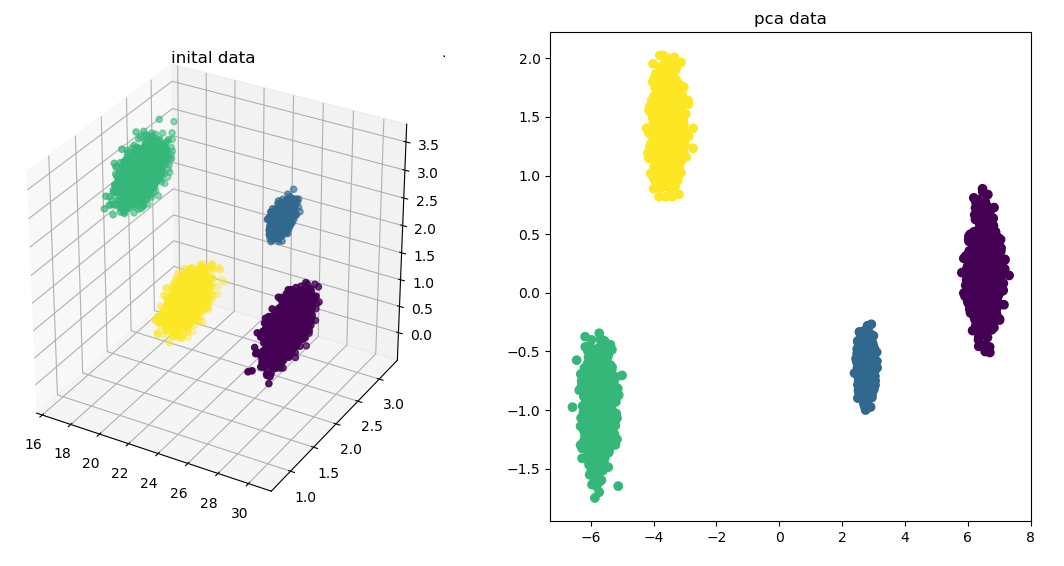
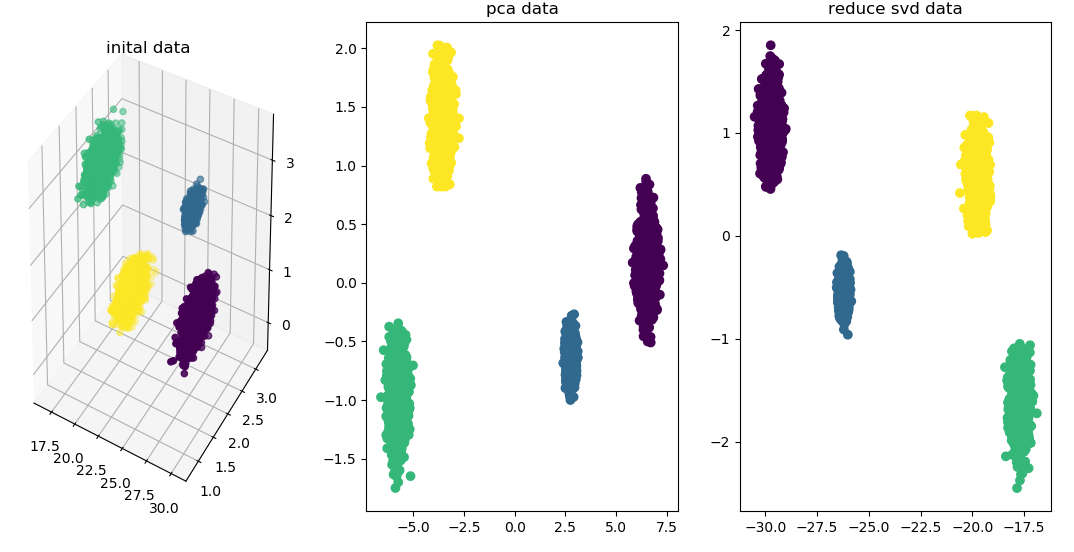
add svd

diff --git a/KMeansImageCompression/PCA.py b/KMeansImageCompression/PCA.py
@@ -1,5 +1,6 @@
 __author__ = 'wanqian'
 import numpy as np
+from numpy.linalg import svd
 from sklearn.datasets import make_blobs
 import matplotlib.pyplot as plt
 from mpl_toolkits.mplot3d import Axes3D
@@ -15,11 +16,22 @@ pca = PCA(n_components=2).fit(dataset)
 data_new = pca.transform(dataset)
 
 fig1 = plt.figure()
-ax = fig1.add_subplot(1, 2, 1, projection='3d')
+ax = fig1.add_subplot(1, 3, 1, projection='3d')
 ax.scatter(dataset[:,0], dataset[:,1], dataset[:,2], c=label)
 ax.set_title('inital data')
 
-ax = fig1.add_subplot(1, 2, 2)
+ax = fig1.add_subplot(1, 3, 2)
 ax.scatter(data_new[:,0], data_new[:,1], c=label)
 ax.set_title('pca data')
+
+Sigma = np.dot(np.transpose(dataset), dataset)/(dataset.shape[0])
+U, S, V = svd(Sigma)
+Ureduce = U[:, 0:2]
+reduce_svd_data = np.dot(dataset, Ureduce)
+# ax = fig1.add_subplot(1, 3, 3, projection='3d')
+# ax.scatter(reduce_svd_data[:,0], reduce_svd_data[:,1], reduce_svd_data[:,2], c=label)
+ax = fig1.add_subplot(1, 3, 3)
+ax.scatter(reduce_svd_data[:,0], reduce_svd_data[:,1], c=label)
+ax.set_title('reduce svd data')
+
 plt.show()
